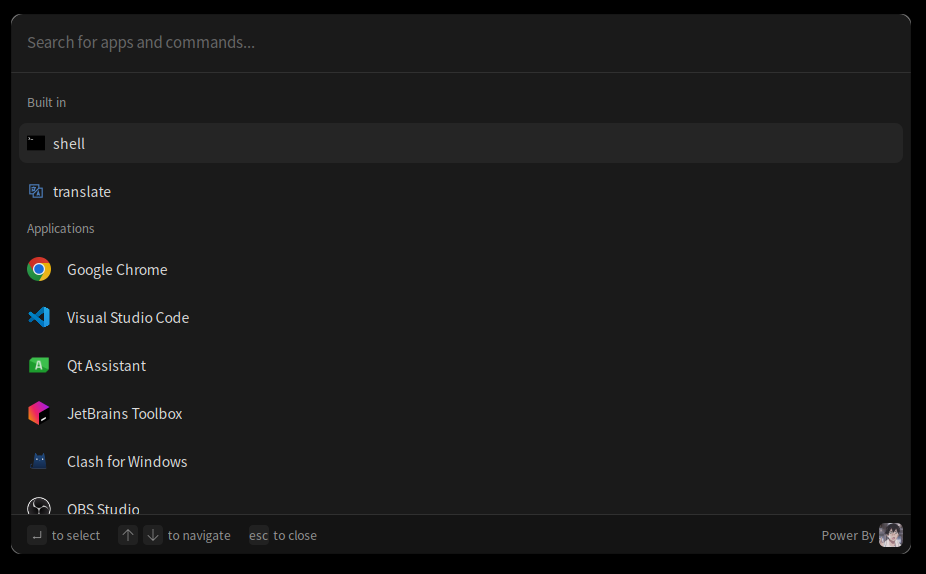
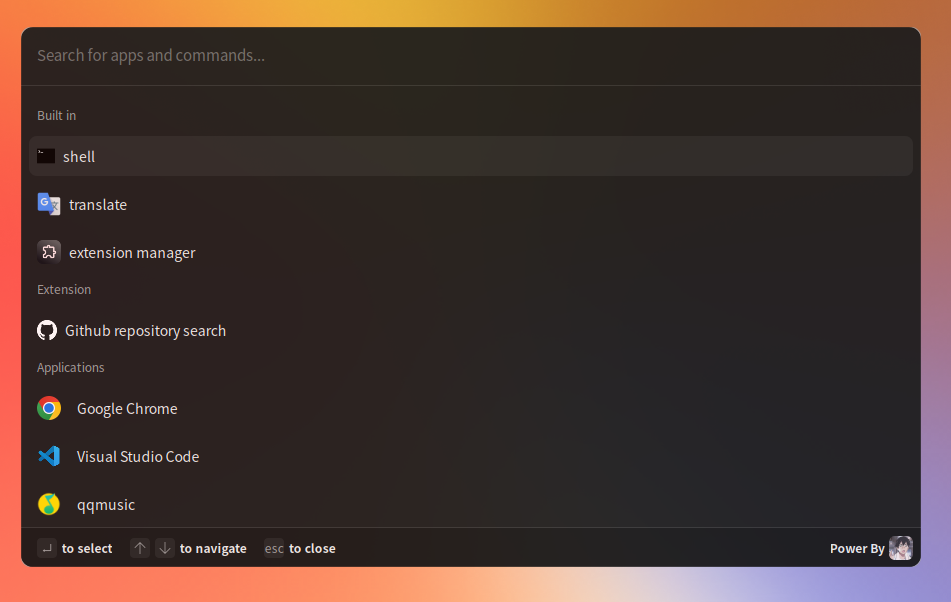
Update README

Changed region(s): [[0.0, 0.0, 1.0, 1.0]]

diff --git a/README.md b/README.md
@@ -1,9 +1,10 @@
 # launcher
 
-A launcher for linux
+A launcher like raycast, but for linux
+
 ![image](.github/img.png)
 
-## install
+## Install
 
 ```bash
 go install github.com/wailsapp/wails/v2/cmd/wails@v2.5.1
@@ -13,6 +14,15 @@ wails build
 ./build/bin/launcher
 ```
 
-## requirements
+## Requirements
 
 1. xclip: `yay -S xclip`
+
+## Build your owner extension
+
+You can use  [template](https://github.com/fzdwx/launcher-extension-sample) as a first step in developing extensions
+
+reference:
+
+1. https://github.com/fzdwx/launcher-github-repository-search
+2. https://github.com/fzdwx/launcher-extension
